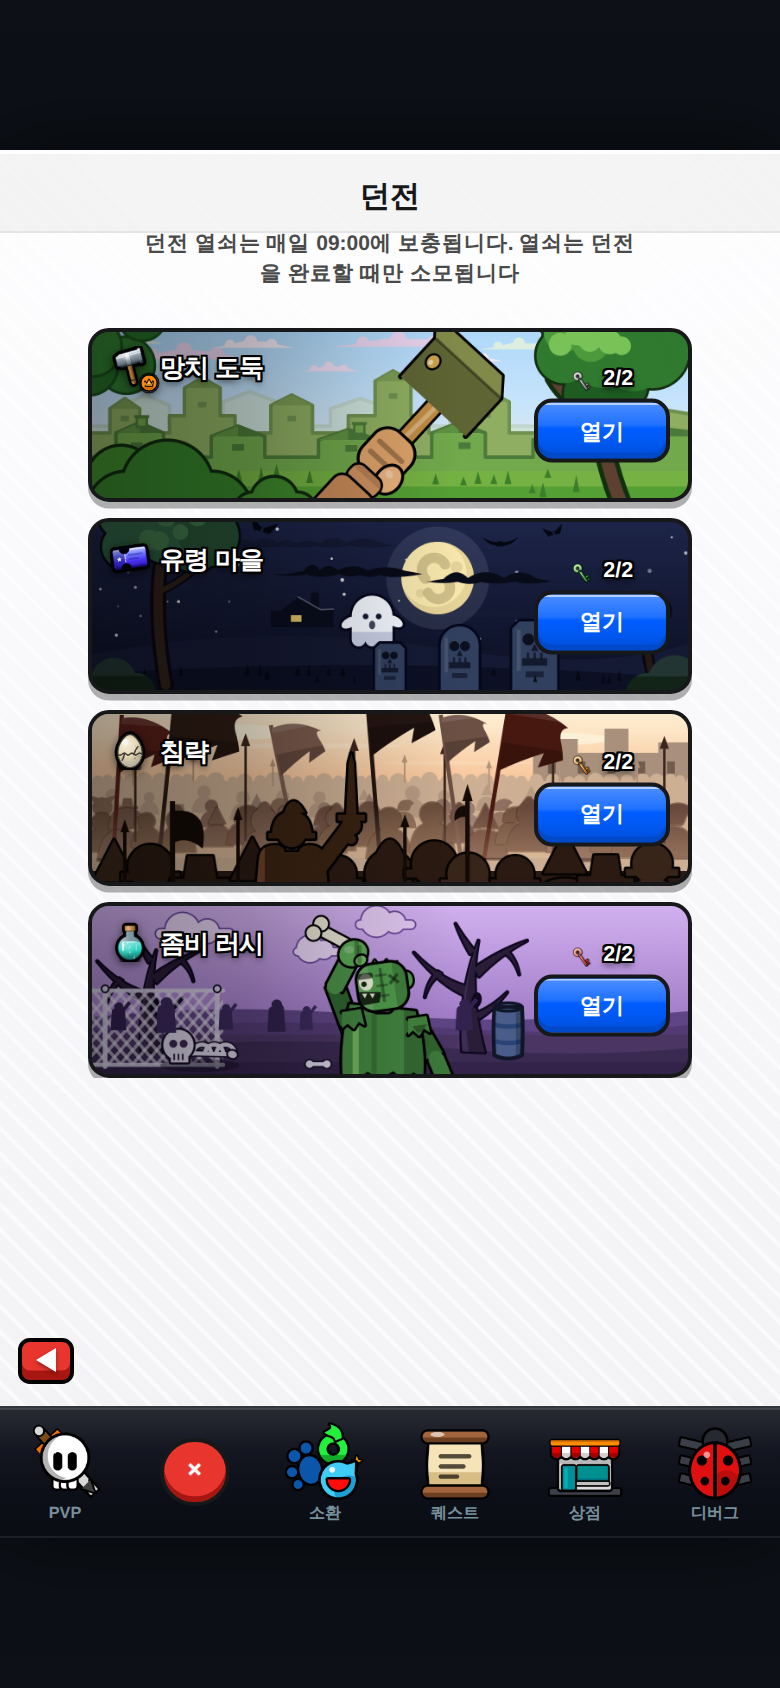
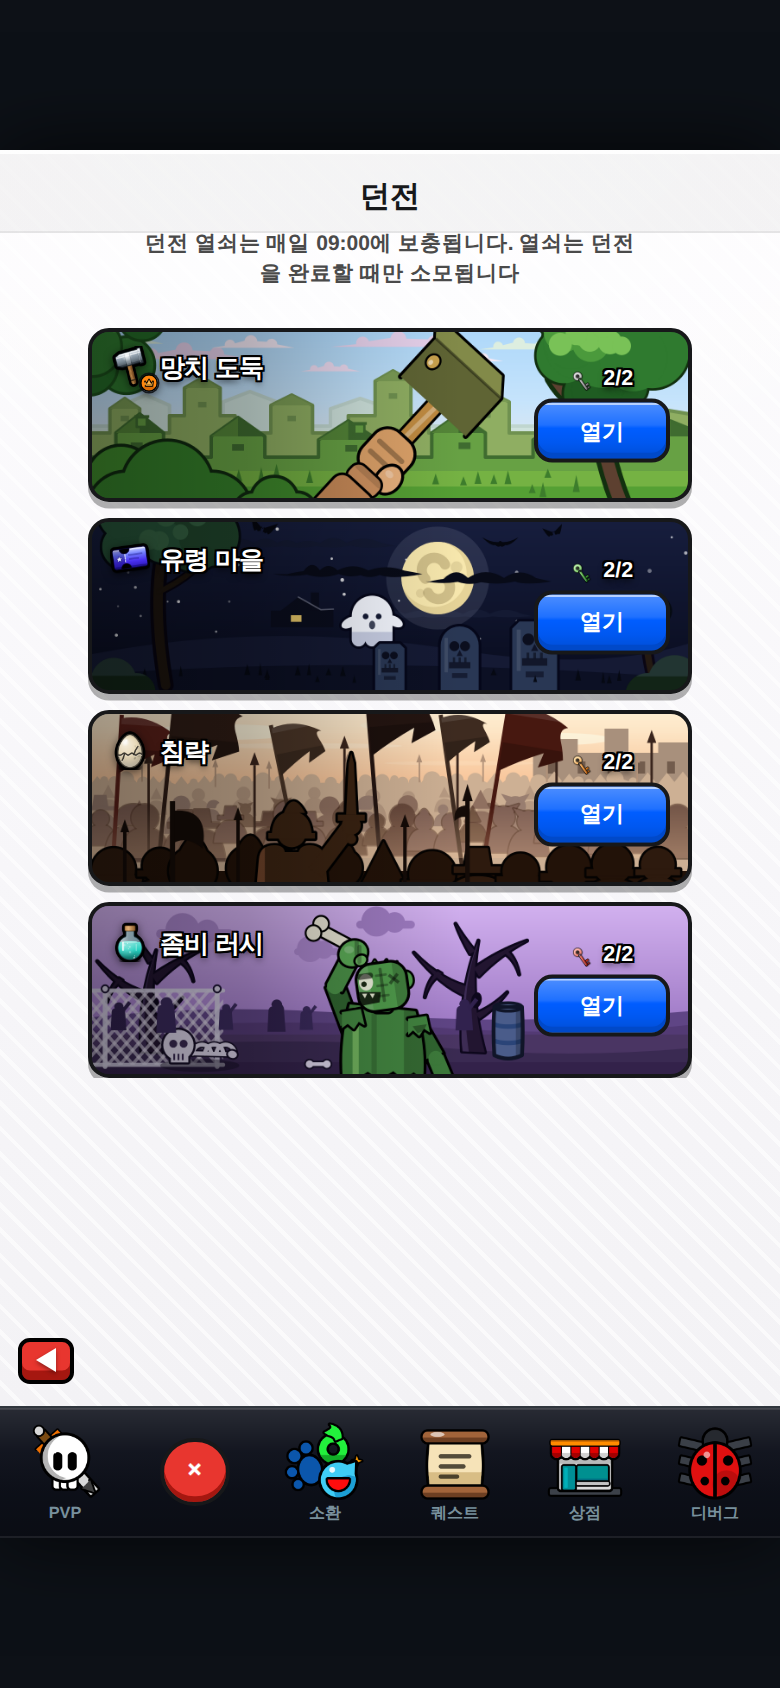
던전 행 R5 비평(76/79) 교집합 반영 — 4행 구름 키라인 철회(원본 실측 무외곽선 — R4 유선 처방이 원본 이탈)+저명도 보라 실루엣·고목 근흑 자주 침강, 2행 하늘·묘비·좌측 나무 한 단 감광(주간용 나무 해소, title-ink 34.8 통과), 3행 깃발 근흑 2장(암적 악센트 유지)+앞열 채움 근흑+중경 크기 지터 확대+원경 뾰족 투구 혹 22% 혼합, 1행 근경 박공 물매 세움(+0.05H)+초록 한 단 침강

diff --git a/web/js/icongen.js b/web/js/icongen.js
@@ -3744,31 +3744,31 @@ IconGen._genderSym = function (ctx, S, female) {
             fill(ctx, '#7b9c55', () => { ctx.moveTo(W * lx, H * by); ctx.lineTo(W * px, H * py); ctx.lineTo(W * rx2, H * by); }));
         [[0.048, 0.50], [0.178, 0.42], [0.328, 0.50], [0.498, 0.37], [0.655, 0.48], [0.792, 0.52]].forEach(([wx, wy]) =>
             fill(ctx, '#6f9150', () => ctx.rect(W * wx, H * wy, W * 0.014, H * 0.032)));
-        town([[-0.02, 0.74], [0.04, 0.74], [0.04, 0.60], [0.08, 0.54], [0.12, 0.60], [0.12, 0.74],
-        [0.20, 0.74], [0.20, 0.62], [0.245, 0.56], [0.29, 0.62], [0.29, 0.74],
-        [0.38, 0.74], [0.38, 0.64], [0.43, 0.58], [0.48, 0.64], [0.48, 0.74],
-        [0.57, 0.74], [0.57, 0.60], [0.615, 0.54], [0.66, 0.60], [0.66, 0.74],
-        [0.74, 0.74], [0.74, 0.64], [0.79, 0.58], [0.84, 0.64], [0.84, 0.74],
-        [0.92, 0.74], [0.92, 0.62], [0.97, 0.58], [1.02, 0.60]],
-            '#71a94c', '#4c7a3a');
+        town([[-0.02, 0.74], [0.04, 0.74], [0.04, 0.60], [0.08, 0.49], [0.12, 0.60], [0.12, 0.74],
+        [0.20, 0.74], [0.20, 0.62], [0.245, 0.51], [0.29, 0.62], [0.29, 0.74],
+        [0.38, 0.74], [0.38, 0.64], [0.43, 0.53], [0.48, 0.64], [0.48, 0.74],
+        [0.57, 0.74], [0.57, 0.60], [0.615, 0.49], [0.66, 0.60], [0.66, 0.74],
+        [0.74, 0.74], [0.74, 0.64], [0.79, 0.53], [0.84, 0.64], [0.84, 0.74],
+        [0.92, 0.74], [0.92, 0.62], [0.97, 0.53], [1.02, 0.60]],
+            '#67a144', '#3f6c30');
         /* 근경 열 지붕/벽 분리(3차 재채점 교집합 ⓒ — 초록 단색 폴리라인은 '산울타리'로 읽힌다):
            박공마다 지붕 삼각을 어두운 초록으로 채워 벽(연초록)·지붕(진초록)이 갈리면 건물이 된다.
            ⚠ 원본 실측이 '초록 성벽'이라 초록 자체는 유지(사용자 지시 우선 원칙) — 색상군은 두고
            명도만 가른다. */
-        [[0.04, 0.08, 0.12, 0.60, 0.54], [0.20, 0.245, 0.29, 0.62, 0.56], [0.38, 0.43, 0.48, 0.64, 0.58],
-        [0.57, 0.615, 0.66, 0.60, 0.54], [0.74, 0.79, 0.84, 0.64, 0.58], [0.92, 0.97, 1.02, 0.62, 0.58]].forEach(([lx, px, rx2, by, py]) => {
-            fill(ctx, '#4c7a3a', () => { ctx.moveTo(W * lx, H * by); ctx.lineTo(W * px, H * py); ctx.lineTo(W * rx2, H * by); });
-            fill(ctx, '#5f9142', () => { ctx.moveTo(W * lx, H * by); ctx.lineTo(W * px, H * py); ctx.lineTo(W * px, H * by); });   // 빛 받는 왼 지붕면(2톤)
+        [[0.04, 0.08, 0.12, 0.60, 0.49], [0.20, 0.245, 0.29, 0.62, 0.51], [0.38, 0.43, 0.48, 0.64, 0.53],
+        [0.57, 0.615, 0.66, 0.60, 0.49], [0.74, 0.79, 0.84, 0.64, 0.53], [0.92, 0.97, 1.02, 0.62, 0.53]].forEach(([lx, px, rx2, by, py]) => {
+            fill(ctx, '#3f6c30', () => { ctx.moveTo(W * lx, H * by); ctx.lineTo(W * px, H * py); ctx.lineTo(W * rx2, H * by); });
+            fill(ctx, '#548538', () => { ctx.moveTo(W * lx, H * by); ctx.lineTo(W * px, H * py); ctx.lineTo(W * px, H * by); });   // 빛 받는 왼 지붕면(2톤)
         });
         /* 창 실루엣(10차 2인 공통 '마을 판독') — 근경 열 벽면에 어두운 창 5개 */
         [[0.065, 0.655], [0.235, 0.665], [0.425, 0.67], [0.615, 0.655], [0.795, 0.665]].forEach(([wx, wy]) =>
-            fill(ctx, '#4c7a3a', () => ctx.rect(W * wx, H * wy, W * 0.020, H * 0.038)));
+            fill(ctx, '#3f6c30', () => ctx.rect(W * wx, H * wy, W * 0.020, H * 0.038)));
         /* 굴뚝(9차 '마을이 아니라 도시 실루엣') — 근경 열 지붕 경사 위 작은 굴뚝 3개 */
         [[0.075, 0.565], [0.44, 0.605], [0.805, 0.605]].forEach(([cx, cy]) => {
-            fill(ctx, '#71a94c', () => ctx.rect(W * cx, H * (cy - 0.055), W * 0.017, H * 0.055));
-            ctx.strokeStyle = '#4c7a3a'; ctx.lineWidth = H * 0.014;
+            fill(ctx, '#67a144', () => ctx.rect(W * cx, H * (cy - 0.055), W * 0.017, H * 0.055));
+            ctx.strokeStyle = '#3f6c30'; ctx.lineWidth = H * 0.014;
             ctx.strokeRect(W * cx, H * (cy - 0.055), W * 0.017, H * 0.055);
-            fill(ctx, '#4c7a3a', () => ctx.rect(W * (cx - 0.004), H * (cy - 0.068), W * 0.025, H * 0.016));
+            fill(ctx, '#3f6c30', () => ctx.rect(W * (cx - 0.004), H * (cy - 0.068), W * 0.025, H * 0.016));
         });
         /* (8차 '오클루전 한 겹'으로 넣었던 중경 소형 나무는 R4 에서 **삭제** — 비평가 2인 공통
            '주인공(망치) 옆 시선 분산 + 원본에 없는 발명'. 오클루전은 우측 큰 나무·모서리 덤불이
@@ -3910,7 +3910,7 @@ IconGen._genderSym = function (ctx, S, female) {
            (박쥐가 아니다). 묘비는 우하단에 큰 것 둘(해골·RIP 각인), 좌측은 잎 달린 큰 나무,
            모서리엔 어두운 덤불. */
         const W = S * AR, H = S, R = rnd(23);
-        sky(ctx, W, H, '#1d2549', '#0b0f22');
+        sky(ctx, W, H, '#171e3e', '#080b1c');   /* R5 B(2연속) '원본은 거의 검정 암청' — 한 단 감광(title-ink 좌반 하한 26 주의: 이 이상 내리지 말 것) */
         for (let i = 0; i < 26; i++) {                                    // 별 — 원본처럼 성기게. 3차 교집합 ⓔ: 최대 지름 절반('행성처럼 크다') — 단 크기 편차는 원본 사양이라 편차 자체는 유지
             const x = R() * W, y = R() * H * 0.72, r = H * (0.005 + R() * 0.007);
             fill(ctx, `rgba(255,255,255,${0.35 + R() * 0.55})`, () => ctx.arc(x, y, r, 0, Math.PI * 2));
@@ -4083,7 +4083,7 @@ IconGen._genderSym = function (ctx, S, female) {
                 ? () => { ctx.moveTo(x, y + h); ctx.lineTo(x, y + w * 0.28); ctx.lineTo(x + w * 0.16, y + w * 0.12); ctx.lineTo(x + w * 0.84, y + w * 0.12); ctx.lineTo(x + w, y + w * 0.28); ctx.lineTo(x + w, y + h); ctx.closePath(); }
                 : () => { ctx.moveTo(x, y + h); ctx.lineTo(x, y + w * 0.5); ctx.arc(x + w * 0.5, y + w * 0.5, w * 0.5, Math.PI, 0); ctx.lineTo(x + w, y + h); ctx.closePath(); };
             ctx.beginPath(); p(); ctx.strokeStyle = '#05071a'; ctx.lineWidth = H * 0.030; ctx.stroke();   // R2 공통 '전경 키라인 비일관' — 굵은 근흑 키라인(스트로크→채움 순서로 바깥만 남긴다)
-            ctx.beginPath(); p(); ctx.fillStyle = '#31405f'; ctx.fill();   // R4 비평가 2인 공통 '묘비가 여전히 팝': 6차의 한 단에 이어 한 단 더 — 어두운 남색 쪽으로
+            ctx.beginPath(); p(); ctx.fillStyle = '#293754'; ctx.fill();   // R5 A·B 재공통 '묘비 스티커처럼 팝' — 한 단 더 침강(각인 자체는 원본 실측 사양: 해골+RIP 유지)
             fill(ctx, 'rgba(8,10,24,.9)', () => ctx.arc(x + w * 0.36, y + w * 0.52, w * 0.13, 0, Math.PI * 2));             // 해골 각인(두 눈 + 코)
             fill(ctx, 'rgba(8,10,24,.9)', () => ctx.arc(x + w * 0.64, y + w * 0.52, w * 0.13, 0, Math.PI * 2));
             fill(ctx, 'rgba(8,10,24,.75)', () => { ctx.moveTo(x + w * 0.5, y + w * 0.62); ctx.lineTo(x + w * 0.42, y + w * 0.78); ctx.lineTo(x + w * 0.58, y + w * 0.78); });
@@ -4113,19 +4113,22 @@ IconGen._genderSym = function (ctx, S, female) {
                 ctx.beginPath(); ctx.moveTo(x - H * 0.01, H * 0.42); ctx.quadraticCurveTo(x + H * 0.16, H * 0.34, x + H * 0.24, H * 0.24); ctx.stroke();
                 ctx.lineCap = 'butt';
             };
-            trunkStroke(t + H * 0.036, '#0a0614'); trunkStroke(t, '#2e2119');
+            trunkStroke(t + H * 0.036, '#070410'); trunkStroke(t, '#1d150e');   // R5 A '주간용 나무' — 밤 실루엣 쪽으로 침강(7차 '너무 검으면 마른 줄기' 함정: 초록 색상군은 유지)
             /* ⚠ 잎을 너무 검게(#101f16) 깔면 남색 하늘과 명도차가 없어 '잎 없는 마른 줄기'로
                읽힌다(비평가 7차) — 한 단 밝은 초록으로 캐노피 덩어리를 세운다. 좌반부 평균 휘도
                하한(26)은 밝아지는 쪽이라 안전하다. */
             const blobs = [];
             for (let i = 0; i < 9; i++)                                    // 잎 덩어리(자리 먼저 뽑는다 — 스트로크→채움 2패스용)
-                blobs.push([x + H * (-0.22 + R() * 0.50), H * (-0.08 + R() * 0.30), H * (0.12 + R() * 0.08), i % 2 ? '#265034' : '#2d5c40']);   // 이번 런 B: 하늘과 값이 붙어 실루엣 소실 — 1.5스텝 밝게
+                /* 병합 절충(두 스트림 비평가가 정반대 지적): 병렬 R '하늘과 값이 붙어 실루엣 소실 — 밝게'
+                   vs 이쪽 R5 A '주간용 나무 — 어둡게'. A 의 실인은 갈색 줄기였고(근흑으로 침강 완료),
+                   실루엣 소실은 실측 함정(7차)이라 캐노피는 병렬 값에서 반 스텝만 내려 절충. */
+                blobs.push([x + H * (-0.22 + R() * 0.50), H * (-0.08 + R() * 0.30), H * (0.12 + R() * 0.08), i % 2 ? '#20452c' : '#265238']);
             ctx.strokeStyle = '#060b12'; ctx.lineWidth = H * 0.028;        // 합집합 키라인(채움이 안쪽 획을 덮는다 — 덤불 화법)
             blobs.forEach(([lx, ly, r]) => { ctx.beginPath(); ctx.arc(lx, ly, r, 0, Math.PI * 2); ctx.stroke(); });
             blobs.forEach(([lx, ly, r, c]) => fill(ctx, c, () => ctx.arc(lx, ly, r, 0, Math.PI * 2)));
             for (let i = 0; i < 5; i++) {                                  // 달빛 림 혹
                 const lx = x + H * (-0.16 + R() * 0.40), ly = H * (-0.05 + R() * 0.20), r = H * (0.038 + R() * 0.028);
-                fill(ctx, '#3f7248', () => ctx.arc(lx, ly, r, 0, Math.PI * 2));   // 달빛 림도 한 단 위로
+                fill(ctx, '#356343', () => ctx.arc(lx, ly, r, 0, Math.PI * 2));   // 달빛 림(절충값)
             }
         })();
         /* 우측 가장자리 낮은 나무(잔여 결함 ⓒ — 좌측 큰 나무만 있어 좌우 비대칭): 우측 28%는
@@ -4144,11 +4147,11 @@ IconGen._genderSym = function (ctx, S, female) {
             trunkStroke(t + H * 0.030, '#0a0614'); trunkStroke(t, '#241a12');   // 키라인 언더레이(R2 공통)
             const blobs = [];
             for (let i = 0; i < 5; i++)                                    // 작은 캐노피(좌측 나무와 같은 어두운 초록 계열)
-                blobs.push([x + H * (-0.16 + R() * 0.24), H * (0.525 + R() * 0.07), H * (0.05 + R() * 0.032), i % 2 ? '#1c3a26' : '#224630']);
+                blobs.push([x + H * (-0.16 + R() * 0.24), H * (0.525 + R() * 0.07), H * (0.05 + R() * 0.032), i % 2 ? '#16301f' : '#1c3a28']);
             ctx.strokeStyle = '#060b12'; ctx.lineWidth = H * 0.024;
             blobs.forEach(([lx, ly, r]) => { ctx.beginPath(); ctx.arc(lx, ly, r, 0, Math.PI * 2); ctx.stroke(); });
             blobs.forEach(([lx, ly, r, c]) => fill(ctx, c, () => ctx.arc(lx, ly, r, 0, Math.PI * 2)));
-            fill(ctx, '#33603c', () => ctx.arc(x - H * 0.03, H * 0.525, H * 0.028, 0, Math.PI * 2));   // 달빛 림 혹 하나
+            fill(ctx, '#2a4f33', () => ctx.arc(x - H * 0.03, H * 0.525, H * 0.028, 0, Math.PI * 2));   // 달빛 림 혹 하나
         })();
         // 모서리 덤불 — 우하단(묘비 앞)·좌하단. 원본 네 모서리의 어두운 초록 덩어리.
         const dbush = (bx, by, s) => {
@@ -4210,7 +4213,13 @@ IconGen._genderSym = function (ctx, S, female) {
         (() => {
             ctx.beginPath(); ctx.moveTo(0, H); ctx.lineTo(0, H * 0.40);
             let x = 0;
-            while (x < W) { const r = H * (0.028 + R() * 0.022); ctx.arc(x + r, H * (0.395 + R() * 0.016), r, Math.PI, 0); x += r * (1.7 + R() * 0.7); }
+            /* R5 A '균일 반원 = 팝콘 텍스처': 반경·간격 지터 확대 + 서너 개마다 뾰족 투구 혹을 섞는다 */
+            while (x < W) {
+                const r = H * (0.022 + R() * 0.034), cy = H * (0.393 + R() * 0.022);
+                if (R() < 0.22) { ctx.lineTo(x, cy + r * 0.2); ctx.lineTo(x + r, cy - r * 1.05); ctx.lineTo(x + r * 2, cy + r * 0.2); }
+                else ctx.arc(x + r, cy, r, Math.PI, 0);
+                x += r * (1.5 + R() * 1.1);
+            }
             ctx.lineTo(W, H); ctx.closePath(); ctx.fillStyle = '#cdb094'; ctx.fill();
             /* 원경 창끝 시그니처(R2 A2 '원경 군중 = 자갈밭/거품' — 머리 혹만으론 사람 판정이
                안 선다): 띠 위로 솟는 가는 창 8자루. 띠보다 한 단 어두운 톤이라 원경 층은 유지. */
@@ -4278,9 +4287,9 @@ IconGen._genderSym = function (ctx, S, female) {
            둘러 인물 한 명 한 명이 분절되게 한다(검정이면 전경 열과 층이 안 갈리므로 톤 윤곽).
            밀도도 한 단 올린다(성겨서 '대군'의 압박감이 약하다는 공통 지적). */
         for (let i = 0; i < 16; i++)                                       // 위 밴드(밝게)
-            figure(W * (i / 16 - 0.004 + R() * 0.036), H * (0.530 + R() * 0.045), 0.62 + R() * 0.45, MIDC_HI[(R() * 4) | 0], pickKind(R()));
+            figure(W * (i / 16 - 0.004 + R() * 0.036), H * (0.530 + R() * 0.045), 0.52 + R() * 0.62, MIDC_HI[(R() * 4) | 0], pickKind(R()));
         for (let i = 0; i < 22; i++)                                       // 아래 밴드(기존 명도 + 톤 윤곽)
-            figure(W * (i / 22 - 0.004 + R() * 0.033), H * (0.585 + R() * 0.060), 0.78 + R() * 0.58, MIDC[(R() * 4) | 0], pickKind(R()), 'rgba(74,45,32,.55)');
+            figure(W * (i / 22 - 0.004 + R() * 0.033), H * (0.585 + R() * 0.060), 0.66 + R() * 0.78, MIDC[(R() * 4) | 0], pickKind(R()), 'rgba(74,45,32,.55)');
         // 창 — 군중 사이에서 올라오는 자루+창끝
         for (let i = 0; i < 6; i++) {
             const x = W * (0.06 + i * 0.17 + R() * 0.05), top = H * (0.18 + R() * 0.14);
@@ -4310,8 +4319,8 @@ IconGen._genderSym = function (ctx, S, female) {
             ctx.restore();
             ctx.restore();
         };
-        banner(W * 0.30, H * 0.08, H * 0.28, H * 0.30, -0.20, '#7d5c4e');  // 중경 밝은 배너(군중 앞이라 깊이가 갈린다)
-        banner(W * 0.585, H * 0.02, H * 0.26, H * 0.28, -0.14, '#6d5044');
+        banner(W * 0.30, H * 0.08, H * 0.28, H * 0.30, -0.20, '#4a3527');  // R5 B '원본은 검정 깃발': 밝은 갈색 2장 근흑화(암적 악센트 2장은 3차 사양 유지)
+        banner(W * 0.585, H * 0.02, H * 0.26, H * 0.28, -0.14, '#3e2b20');
         banner(W * 0.05, H * 0.02, H * 0.30, H * 0.34, 0.06, '#5a2019');   /* 9차 '배너 복붙' — 색을 4종으로 갈랐다 · 3차 교집합 ⓔ: 1장은 암적 악센트(전장 서사 + 팔레트 포인트) */
         banner(W * 0.14, -H * 0.10, H * 0.40, H * 0.42, 0.10, '#2e1c15');
         banner(W * 0.46, -H * 0.14, H * 0.38, H * 0.40, -0.08, '#241511');
@@ -4321,7 +4330,7 @@ IconGen._genderSym = function (ctx, S, female) {
             hz.addColorStop(0, 'rgba(242,196,156,0)'); hz.addColorStop(1, 'rgba(242,196,156,.30)');
             ctx.fillStyle = hz; ctx.fillRect(0, H * 0.40, W, H * 0.45);
         })();
-        fill(ctx, '#2b1a12', () => ctx.rect(0, H * 0.925, W, H * 0.08));   // 앞 열 바탕 띠 — 이게 없으면 머리들이 '떠 있는 검은 공'이 된다(어깨가 크롭 아래라 몸이 안 이어진다)
+        fill(ctx, '#221208', () => ctx.rect(0, H * 0.925, W, H * 0.08));   // 앞 열 바탕 띠 — 이게 없으면 머리들이 '떠 있는 검은 공'이 된다(어깨가 크롭 아래라 몸이 안 이어진다)
         /* 앞 열(이번 런 A·B 공통 '전경 검은 덩어리 = 바위/가마니'): ⑴ 민머리(kind 0)를 금지하고
            투구 단서 있는 종(뾰족·뿔·볏·챙)만 뽑는다 — 사람 단서가 실루엣에 최소 1개씩 실린다.
            ⑵ 채움을 한 단 밝혀(#241612→#2b1a12 계열) 근흑 키라인(#050302)이 갈리게 한다 —
@@ -4330,7 +4339,7 @@ IconGen._genderSym = function (ctx, S, female) {
             /* R4 비평가 2인 공통 '전경이 삼각형 산/바위로 읽힘': 사람 단서는 **둥근 투구 돔+챙**
                (kind 6)이 즉독이라 6을 주종(과반)으로, 뾰족·볏·챙은 악센트로만(민머리 0 금지 유지,
                병렬 R3 '뿔=고양이 귀' — 뿔 종(kind 2)도 제외 유지). */
-            figure(W * (i / 13 + 0.015 + R() * 0.025), H * (0.875 + R() * 0.08), 1.75 + R() * 0.8, i % 4 ? '#2b1a12' : '#38251a', [6, 6, 4, 6, 5, 1][(R() * 6) | 0], '#050302', 1.6 + R() * 0.7, H * 0.026);   // 머리가 하단 크롭에 잘리면 삼각 톱니로 읽힌다 — 0.875H · R2 공통: 전경 키라인 굵기 통일
+            figure(W * (i / 13 + 0.015 + R() * 0.025), H * (0.875 + R() * 0.08), 1.75 + R() * 0.8, i % 4 ? '#221208' : '#2d1a0e', [6, 6, 4, 6, 5, 1][(R() * 6) | 0], '#050302', 1.6 + R() * 0.7, H * 0.026);   // 머리가 하단 크롭에 잘리면 삼각 톱니로 읽힌다 — 0.875H · R2 공통: 전경 키라인 굵기 통일
         }
         /* 근경 주역 1기(R1 A·B 공통 '초점 부재' → R2 A2·B2 공통 '주역이 배경에 묻힘 + 이 행만
            무키라인'): 다른 행 주인공 문법으로 **승격** — 근흑 키라인 + 채움 명도 분리 + 노을
@@ -4450,12 +4459,14 @@ IconGen._genderSym = function (ctx, S, female) {
                 ctx.arc(bx + bw * 0.32, by + bh2 * 0.10, bh2 * 1.90, 0, Math.PI * 2, true);   // 뭉게 혹(왼쪽 크게)
                 ctx.arc(bx + bw * 0.68, by + bh2 * 0.22, bh2 * 1.30, 0, Math.PI * 2, true);   // 뭉게 혹(오른쪽 작게)
             };
-            ctx.beginPath(); p(); ctx.strokeStyle = '#6c4a99'; ctx.lineWidth = H * 0.018; ctx.stroke();
+            /* R5 A [치명] '이 화면 유일의 유선 하늘 요소 — 라인 정책 충돌': 검은 키라인을 걷고
+               하늘보다 어두운 보라 실루엣으로(원본 실측도 무외곽선 저명도 밴드 — R4 A 의 '유선
+               구름' 처방이 원본 이탈이었다). 뭉게 혹 실루엣은 유지. */
             fill(ctx, c, p);
         };
-        band(W * 0.115, H * 0.15, W * 0.115, H * 0.052, '#e6d2f2');
-        band(W * 0.45, H * 0.10, W * 0.085, H * 0.046, '#dfc6ee');
-        band(W * 0.345, H * 0.26, W * 0.065, H * 0.040, '#e6d2f2');
+        band(W * 0.115, H * 0.15, W * 0.115, H * 0.052, '#a683c8');
+        band(W * 0.45, H * 0.10, W * 0.085, H * 0.046, '#9d7ac0');
+        band(W * 0.345, H * 0.26, W * 0.065, H * 0.040, '#a683c8');
         /* 배경 능선 2겹(잔여 결함 ⓔ): 하늘→지면이 한 번에 끊겨 원경이 없었다(8차 '능선 3단 명도').
            멀수록 밝게(대기원근) — 뒤 #5f4585 → 앞 #533a74 → 기존 지면 #4a3563 으로 3단이 선다. */
         fill(ctx, '#5f4585', () => { ctx.moveTo(0, H * 0.66); ctx.quadraticCurveTo(W * 0.22, H * 0.575, W * 0.46, H * 0.645); ctx.quadraticCurveTo(W * 0.72, H * 0.71, W, H * 0.625); ctx.lineTo(W, H); ctx.lineTo(0, H); });
@@ -4469,7 +4480,9 @@ IconGen._genderSym = function (ctx, S, female) {
                화법 자체가 원인이다 — 가지를 **테이퍼 폴리곤**(밑동 폭 → 끝 한 점 뾰족)으로 다시
                그린다. 처진 잔가지 2개 + 밑동→끝 굵기 변화 + 꼭대기 스파이크로 '고목의 앙상함'을
                세우고, 키라인은 스트로크→채움 2패스 합집합(덤불 화법)으로 통일한다. */
-            const c = '#2a1d38', oc = '#0f0920', u = H * sc, B = H * 0.86;
+            /* R5 A '중간 명도 보라 나무 — 원본은 거의 검은 자주 실루엣': 파스텔 하늘 전환(R4)으로
+               상대 명도가 떠서 한 단 침강 */
+            const c = '#221530', oc = '#0d071c', u = H * sc, B = H * 0.86;
             const P = [];
             const tap = (x0, y0, cx2, cy2, x1, y1, w0) => {                // 테이퍼 가지: 양 변이 끝 한 점에서 만난다
                 const dx = x1 - x0, dy = y1 - y0, L = Math.hypot(dx, dy) || 1;
